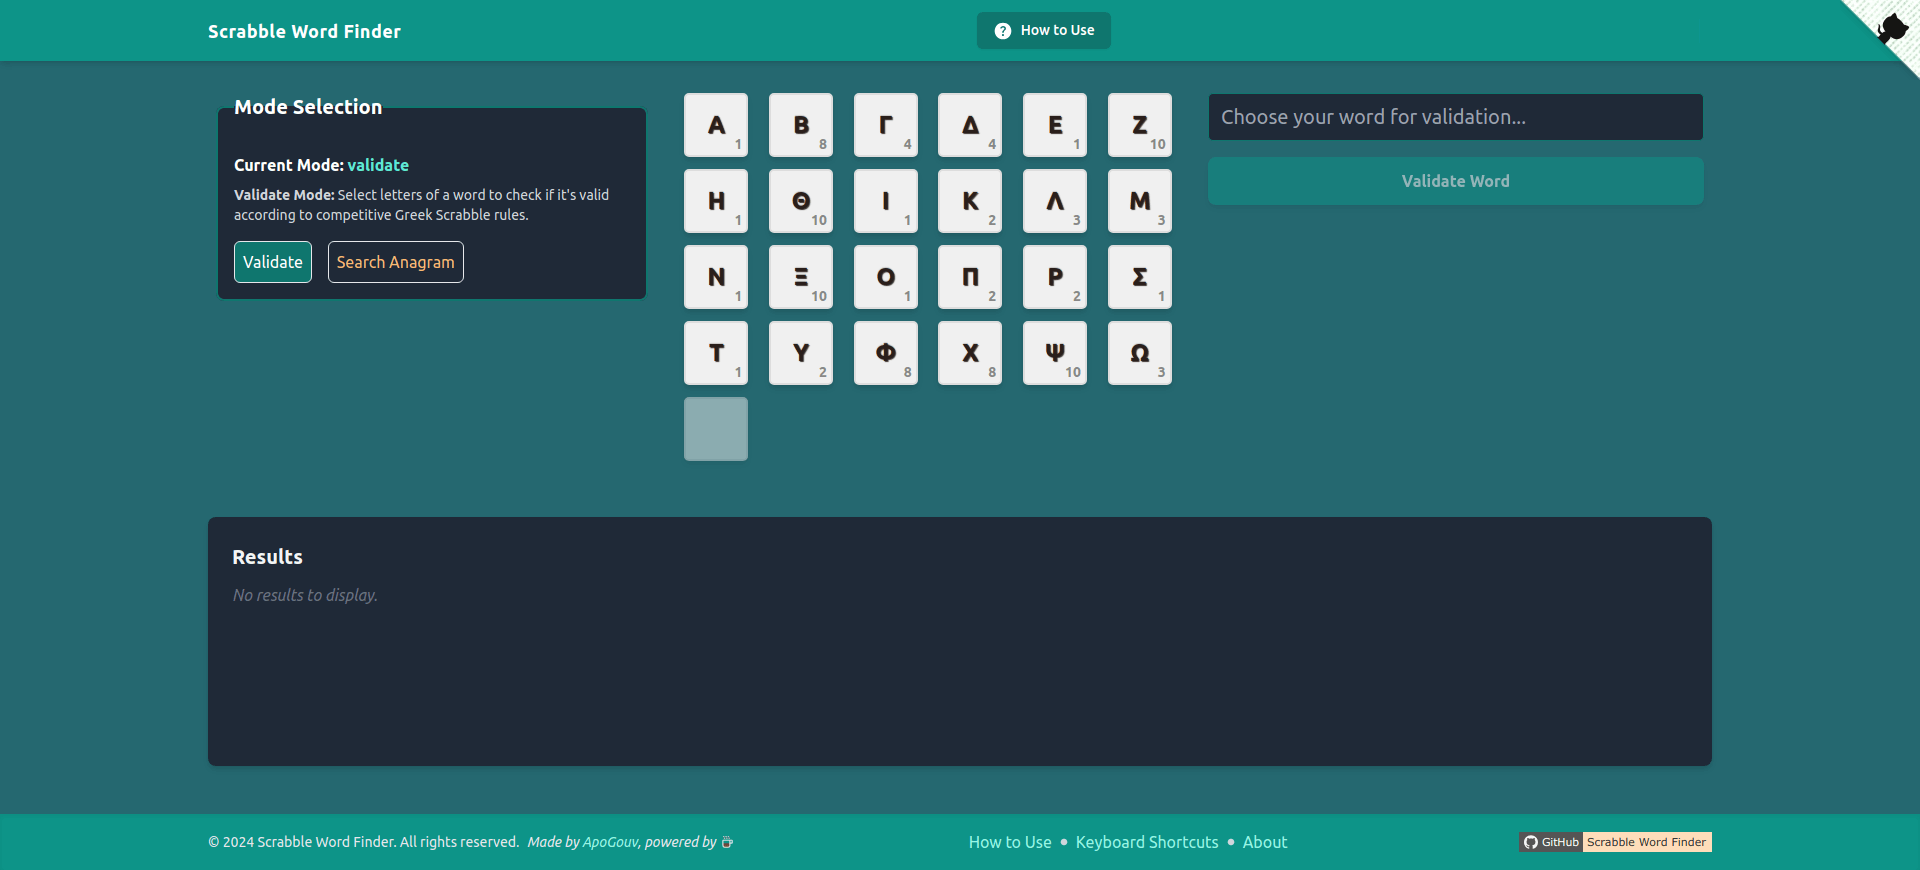
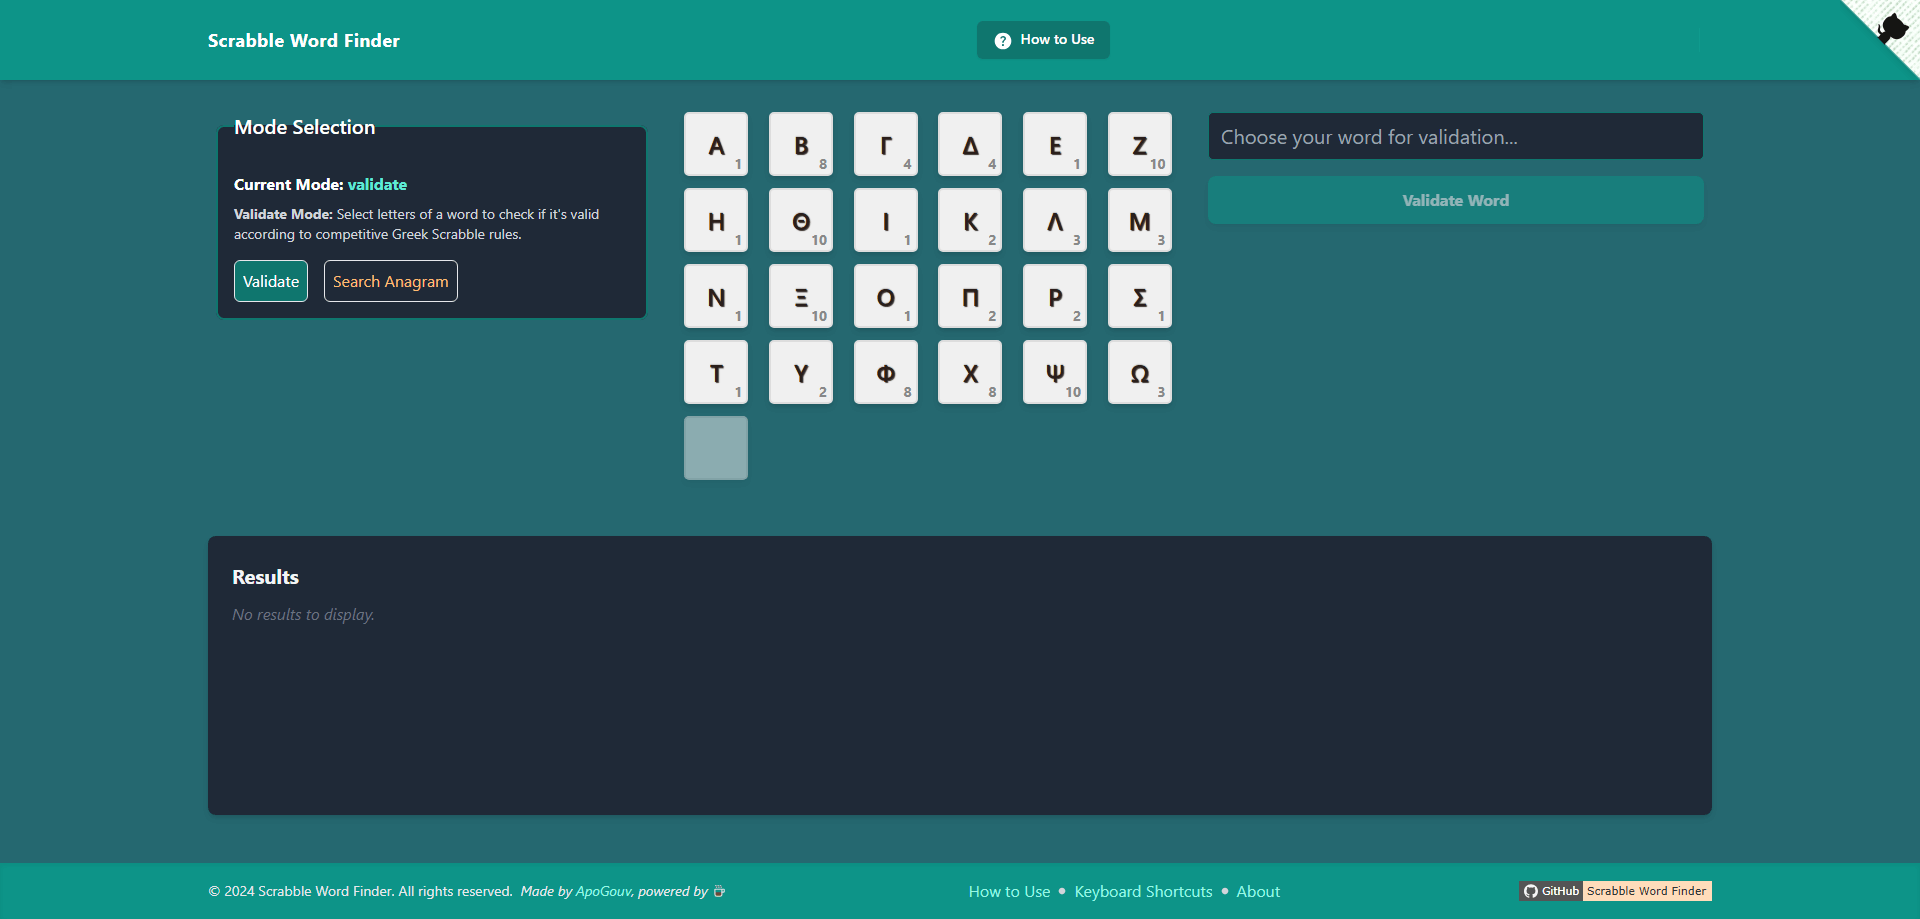
Made header height match the GH corner link and made DH corner to be fixed on top instead of absolute positioned

diff --git a/src/components/Header.vue b/src/components/Header.vue
@@ -5,7 +5,7 @@
 <template>
   <!-- ====== Navbar Section Start -->
   <nav class="bg-teal-600 text-white shadow-md sticky top-0 w-full z-50">
-    <div class="container mx-auto px-4 py-3 flex items-center justify-between">
+    <div class="container mx-auto px-4 py-3 flex items-center justify-between lg:min-h-80">
       <!-- App Title -->
       <a href="#" class="text-lg font-bold text-white tracking-wide hover:text-teal-200">
         Scrabble Word Finder

diff --git a/tailwind.config.js b/tailwind.config.js
@@ -9,7 +9,10 @@ export default {
        '80': 80,
        '90': 90,
        '100': 100,
-      }
+      },
+      spacing: {
+        '80': '80px', // Add 80px as a reusable spacing value
+      },
     },
   },
   plugins: [],

diff --git a/src/components/GitHubRibbon.vue b/src/components/GitHubRibbon.vue
@@ -71,7 +71,7 @@
 <style scoped>
 .github-corner {
   /* display: block; */
-  position: absolute;
+  position: fixed;
   top: 0;
   right: 0;
   width: 80px;
